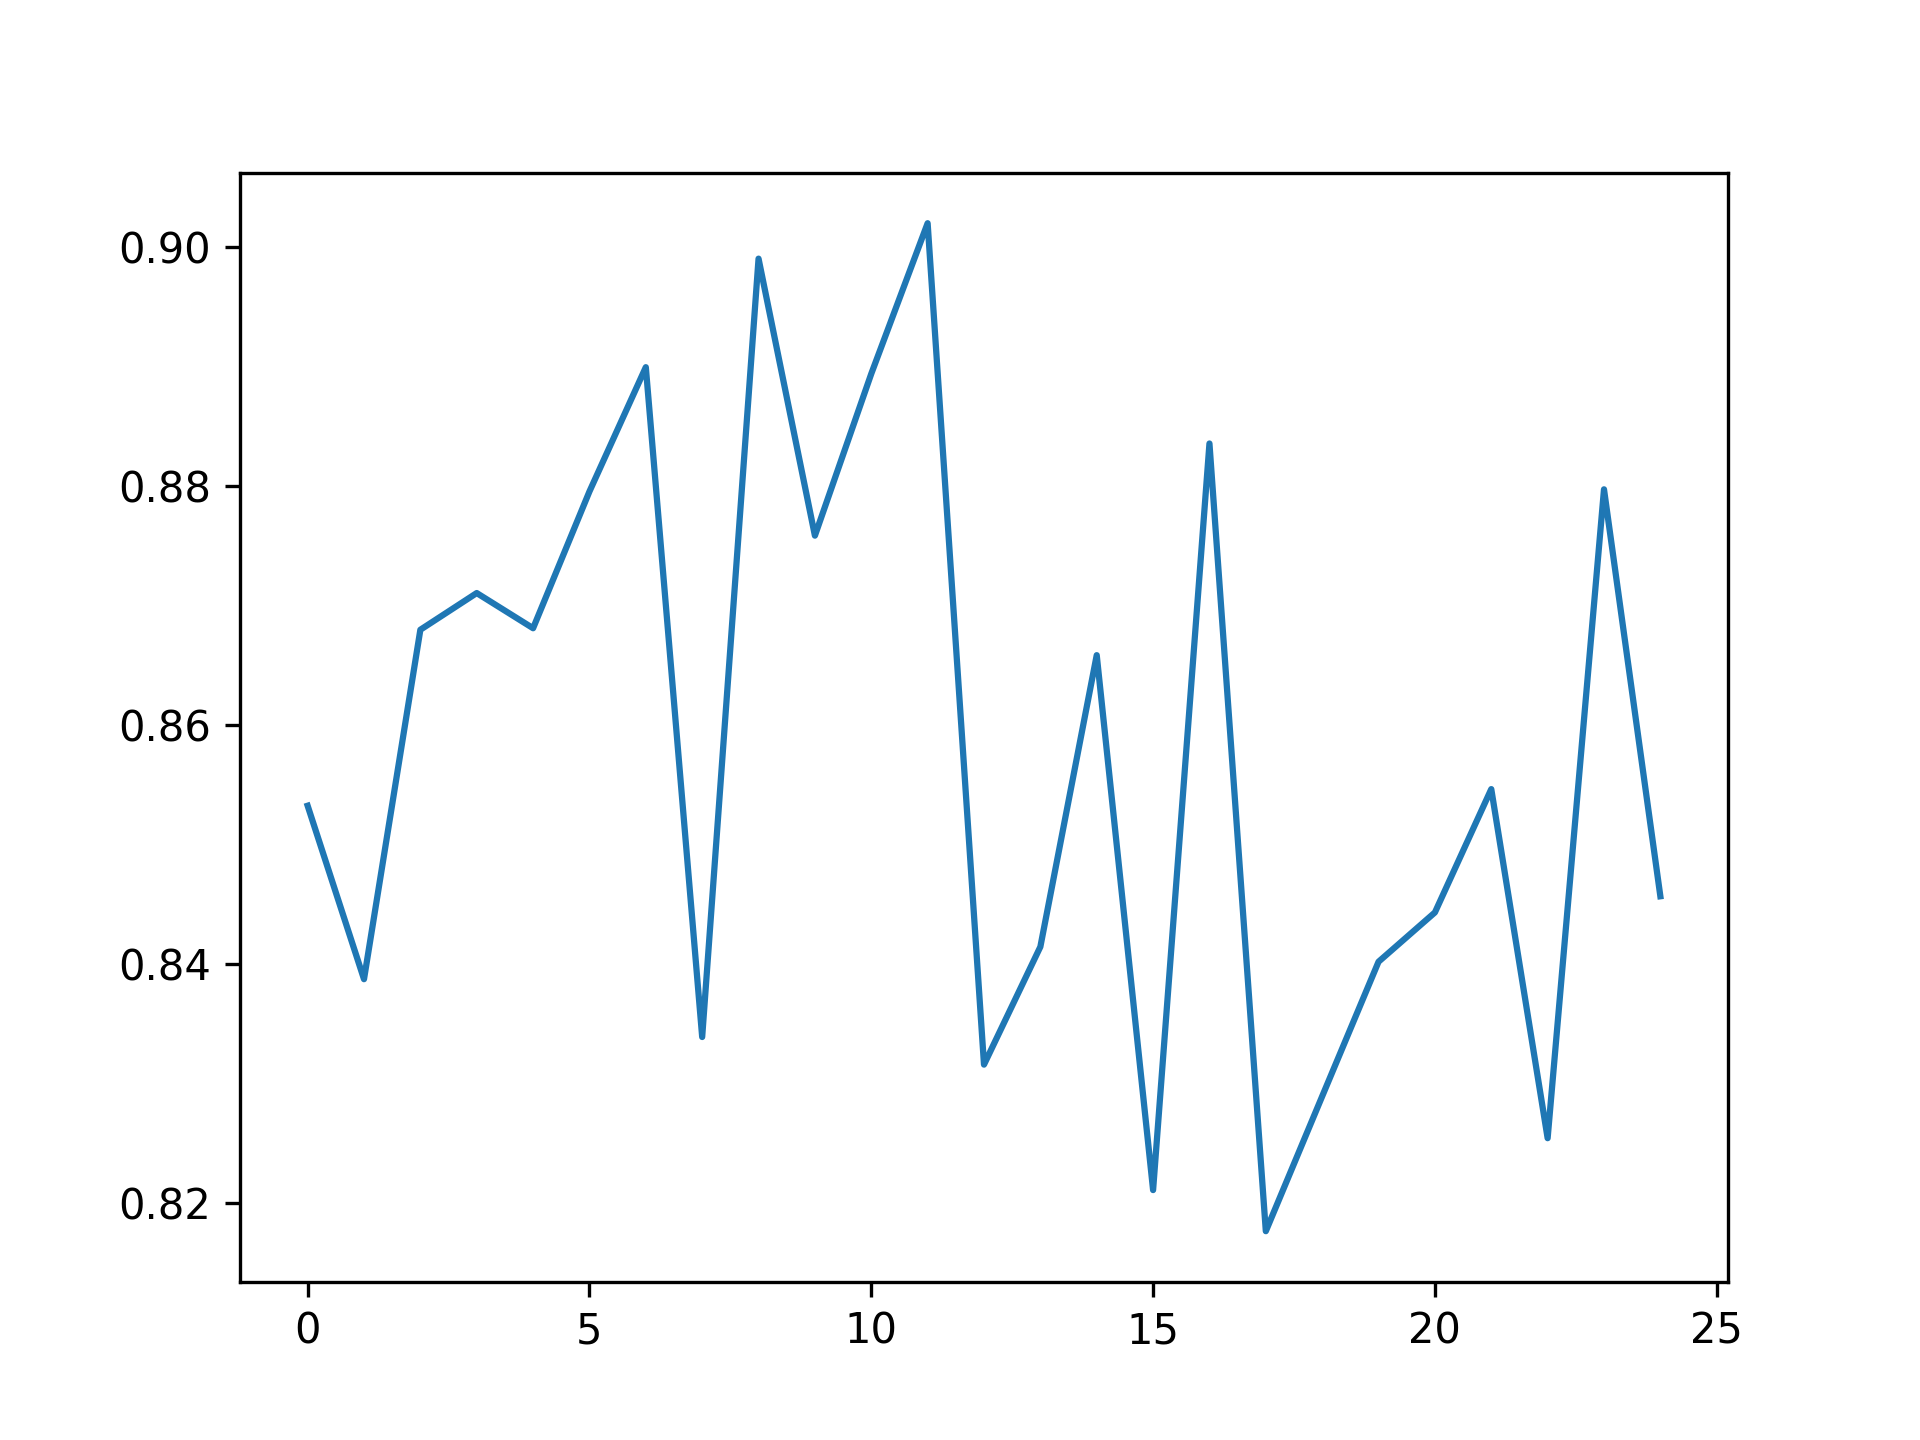
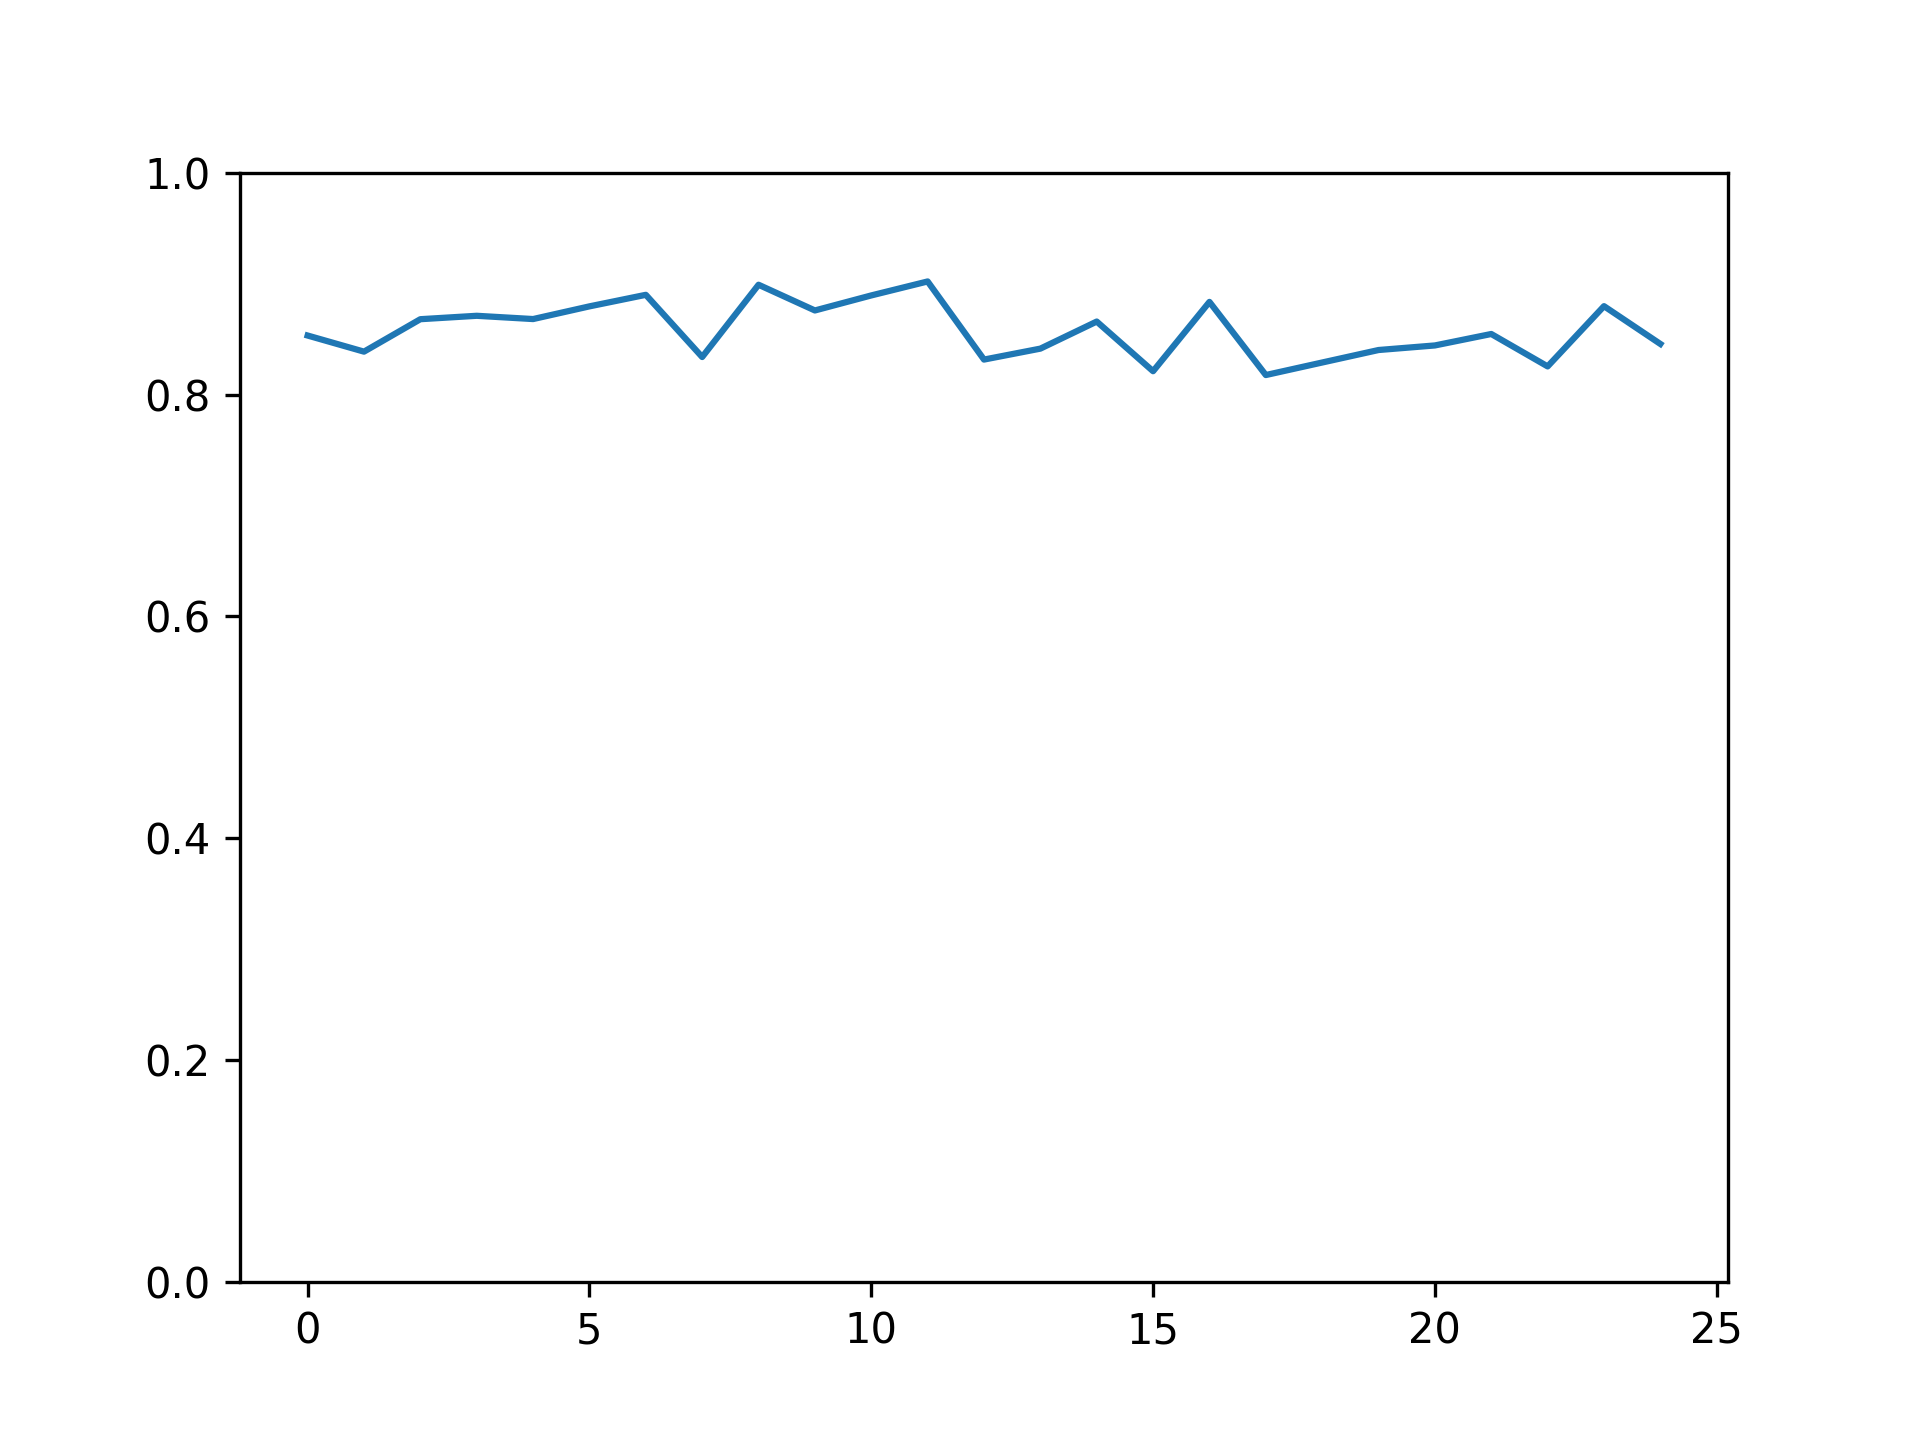
LTC

diff --git a/acc_test.py b/acc_test.py
@@ -15,9 +15,9 @@ from sklearn.metrics import f1_score
 device = torch.device('cuda' if torch.cuda.is_available() else 'cpu')
 print("Using device: ", device)
 
-epoches = 50
-input_size = 128
-model_name = 'CNN'
+epoches = 25
+input_size = 32
+model_name = 'ResNet_LTC'
 
 # 图像转换为1*28*28的Tensor
 transform = transforms.Compose([
@@ -30,8 +30,8 @@ transform = transforms.Compose([
 test_dataset = ImageFolder(root='data/test', transform=transform)
 test_data_loader = DataLoader(test_dataset, batch_size=16, shuffle=True)
 
-# model = ResNet_LTC(in_channels=1)
-model = CNN()
+model = ResNet_LTC(in_channels=1)
+# model = CNN()
 model = model.to(device)
 
 acc_list = []
@@ -71,8 +71,10 @@ for i in range(epoches):
     print('\ntesting epoch: {}, accuracy: {}, F1_score: {}'.format(i, epoch_correct, f1))
 
 plt.plot(acc_list)
+plt.ylim(0.0, 1.0)
 plt.savefig('plots/{}_test_acc.png'.format(model_name), format='png', dpi=300)
 plt.clf()
 plt.plot(f1_list)
+plt.ylim(0.0, 1.0)
 plt.savefig('plots/{}_test_F1.png'.format(model_name), format='png', dpi=300)
 plt.show()

diff --git a/model.py b/model.py
@@ -265,6 +265,8 @@ class ResNet_LTC(nn.Module):
         self.wiring = AutoNCP(28, 1)
         self.rnn = CfC(16, self.wiring)
 
+        make_wiring_diagram(self.wiring, "kamada")
+
 
         # self.classifier = nn.Sequential(nn.MaxPool2d(3),
         #                                 nn.Flatten(),
